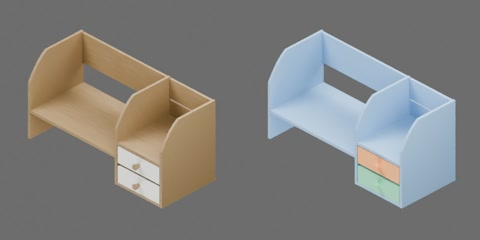
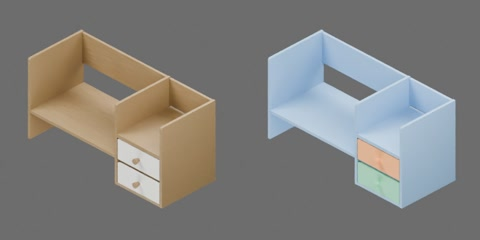
Refine rack drawer geometry and use blend world coordinates

diff --git a/tests/modeling/test_geometry_checks.py b/tests/modeling/test_geometry_checks.py
@@ -74,28 +74,36 @@ class AcceptanceTests(unittest.TestCase):
         views = {'moved.jpg': [{'frame':0, 'camera':camera, 'joints':{},
                                'transforms':{'body':[.2,0,0,1,0,0,0], 'cap':cap_pose}}],
                  'reset.jpg': [{'frame':0, 'camera':camera, 'joints':{}}]}
-        saved = {}
+        initial = {}
         original_sample = GeometryChecks.sample
         def capture(checks, output, frame, values, transforms=None):
             body, cap = bpy.data.objects['body'], bpy.data.objects['cap']
             self.assertIsNone(body.parent); self.assertIsNone(cap.parent)
-            if output == 'moved.jpg':
-                saved.update({obj.name: obj.matrix_world.copy() for obj in checks.visuals + checks.colliders})
-                self.assertAlmostEqual(body.matrix_world.translation.x, .2, places=6)
-                np.testing.assert_allclose(cap.matrix_world.translation, [-.087,-.045,0], atol=1e-6)
-                self.assertAlmostEqual(cap.matrix_world.to_quaternion().angle, np.pi/2, places=6)
-            else:
-                self.assertAlmostEqual(body.matrix_world.translation.x, 0, places=6)
-                self.assertAlmostEqual(cap.matrix_world.translation.x, -.032, places=6)
-                self.assertAlmostEqual(cap.matrix_world.to_quaternion().angle, 0, places=6)
-                delta = (Matrix.Translation((-.087,-.045,0)) @ Matrix.Rotation(-np.pi/2,4,'Z')
-                         @ Matrix.Translation((.032,0,0)))
-                for obj in checks.visuals + checks.colliders:
-                    if checks.owner[obj.name] == 'cap':
-                        np.testing.assert_allclose(saved[obj.name], delta @ obj.matrix_world, atol=1e-6)
+            for obj in [body, cap] + checks.visuals + checks.colliders:
+                owner = obj.name if obj in (body, cap) else checks.owner[obj.name]
+                delta = Matrix.Identity(4)
+                if output == 'moved.jpg':
+                    if owner == 'body':
+                        delta = Matrix.Translation((.2,0,0))
+                    else:
+                        pivot = initial['cap'].translation
+                        delta = (Matrix.Translation(pivot + Vector(cap_pose[:3]))
+                                 @ Matrix.Rotation(-np.pi/2,4,'Z') @ Matrix.Translation(-pivot))
+                np.testing.assert_allclose(obj.matrix_world, delta @ initial[obj.name], atol=1e-6)
             return original_sample(checks, output, frame, values, transforms)
         with tempfile.TemporaryDirectory(dir=options.output) as tmp, patch.object(GeometryChecks,'sample',capture):
-            run_worker(path, views, Path(tmp), True)
+            # asset_id is identity only: a non-unit body frame must not rotate world-space axes.
+            bpy.ops.wm.open_mainfile(filepath=str(path))
+            bpy.context.scene.rigidbody_world.enabled = False
+            frame = Matrix.Translation((.1,.2,.3)) @ Matrix.Rotation(np.pi/2,4,'Z')
+            for name in ('body', 'cap'):
+                obj = bpy.data.objects[name]
+                obj.matrix_world = frame @ obj.matrix_world
+            bpy.context.view_layer.update()
+            initial.update({obj.name: obj.matrix_world.copy() for obj in bpy.context.scene.objects})
+            saved_path = Path(tmp)/'world-frame.blend'
+            bpy.ops.wm.save_as_mainfile(filepath=str(saved_path))
+            run_worker(saved_path, views, Path(tmp)/'preview', True)
         # Rotating an inserted cap sideways must be seen by the collision check.
         overlapping = {'overlap.jpg': [{'frame':0, 'camera':camera, 'joints':{},
                                        'transforms':{'cap':[0,0,0,2**-.5,0,0,2**-.5]}}]}

diff --git a/asset_sources/objects/cabinet/000001/object.py b/asset_sources/objects/cabinet/000001/object.py
@@ -31,10 +31,10 @@ def wood_material():
 
 
 def side_panel(name, x, surface, parent):
-    contour = [(-.170, 0), (.180, 0), (.180, .435), (-.058, .435)]
-    for i in range(1, 5):
-        t = i / 4
-        contour.append((-.170 + .112 * (1 - t), .435 - .132 * t + .018 * math.sin(math.pi * t)))
+    contour = [(-.170, 0), (.180, 0), (.180, .435), (-.160, .435)]
+    for degrees in (120, 150, 180):
+        angle = math.radians(degrees)
+        contour.append((-.160 + .010 * math.cos(angle), .425 + .010 * math.sin(angle)))
     n = len(contour)
     vertices = [(xx, y, z) for xx in (x - .007, x + .007) for y, z in contour]
     faces = [tuple(range(n - 1, -1, -1)), tuple(range(n, 2 * n))]
@@ -52,29 +52,29 @@ def build():
         side_panel(name, x, wood, housing)
     for name, dimensions, position in [
         ("Left raised shelf", (.560, .350, .015), (-.147, .005, .149)),
-        ("Right open cubby floor", (.280, .350, .014), (.2835, .005, .225)),
+        ("Right open cubby floor", (.280, .350, .0168), (.2835, .005, .2671)),
         ("Right cabinet bottom", (.280, .350, .013), (.2835, .005, .008)),
-        ("Drawer divider shelf", (.280, .337, .010), (.2835, .009, .115)),
+        ("Drawer divider shelf", (.280, .337, .012), (.2835, .009, .1351)),
         ("Left upper rear rail", (.560, .013, .1606666667), (-.147, .177, .3481666667)),
         ("Left lower rear board", (.560, .013, .1415), (-.147, .177, .07075)),
-        ("Right upper rear rail", (.280, .013, .105), (.2835, .177, .376)),
-        ("Right cubby back", (.280, .009, .092), (.2835, .178, .2655)),
-        ("Drawer cabinet back", (.280, .008, .210), (.2835, .177, .114)),
+        ("Right upper rear rail", (.280, .013, .141), (.2835, .177, .358)),
+        ("Drawer cabinet back", (.280, .008, .252), (.2835, .177, .1339)),
     ]:
         box(name, dimensions, position, wood, housing)
-    for z in (.058, .165):
+    # Scale the complete drawer bay vertically by 1.2 about the bottom's top (14.5 mm).
+    for z in (.0667, .1951):
         for x in (.151, .416):
-            box("Fixed side guide", (.009, .283, .008), (x, .005, z), inner, housing)
-    for i, z in [(1, .1665), (2, .0595)]:
+            box("Fixed side guide", (.009, .283, .0096), (x, .005, z), inner, housing)
+    for i, z in [(1, .1969), (2, .0685)]:
         drawer = body(f"drawer{i}", root)
         drawer.location = (.2835, -.163, z)
         for name, dimensions, position, surface in [
-            ("White drawer front", (.271, .012, .090), (0, 0, 0), white),
-            ("Drawer frame behind face", (.267, .010, .088), (0, .011, 0), wood),
-            ("Open drawer bottom", (.252, .285, .007), (0, .154, -.041), inner),
-            ("Drawer left wall", (.008, .279, .083), (-.122, .154, -.002), inner),
-            ("Drawer right wall", (.008, .279, .083), (.122, .154, -.002), inner),
-            ("Drawer rear wall", (.252, .008, .083), (0, .298, -.002), inner),
+            ("White drawer front", (.271, .012, .108), (0, 0, 0), white),
+            ("Drawer frame behind face", (.267, .010, .1056), (0, .011, 0), wood),
+            ("Open drawer bottom", (.252, .285, .0084), (0, .154, -.0492), inner),
+            ("Drawer left wall", (.008, .279, .0996), (-.122, .154, -.0024), inner),
+            ("Drawer right wall", (.008, .279, .0996), (.122, .154, -.0024), inner),
+            ("Drawer rear wall", (.252, .008, .0996), (0, .298, -.0024), inner),
         ]:
             box(name, dimensions, position, surface, drawer)
         cylinder("Oak knob neck", .010, .014, (0, -.013, 0), wood, drawer, axis="Y")

diff --git a/table_1000/modeling/preview.py b/table_1000/modeling/preview.py
@@ -195,12 +195,6 @@ def run_worker(blend, views, output, check_only=False, device="auto"):
     bpy.context.view_layer.update()
 
     checks = GeometryChecks()
-    roots = [obj for obj in scene.objects if obj.parent is None and obj.get("asset_id")]
-    if len(roots) > 1:
-        raise ValueError("multiple asset roots; specify one local reference frame")
-    root = roots[0] if roots else None
-    asset_frame = root.matrix_world.copy() if root else Matrix.Identity(4)
-    asset_inverse = asset_frame.inverted()
     meshes = checks.visuals + checks.colliders
     if not meshes:
         raise ValueError("asset contains no visible meshes")
@@ -256,10 +250,10 @@ def run_worker(blend, views, output, check_only=False, device="auto"):
             if not progressed:
                 raise ValueError("joint dependency cycle")
         for name, transform in transforms.items():
-            pivot = asset_inverse @ rest[name].translation
+            pivot = rest[name].translation
             rotation = Quaternion(transform[3:]).to_matrix().to_4x4()
-            delta = (asset_frame @ Matrix.Translation(Vector(transform[:3]) + pivot)
-                     @ rotation @ Matrix.Translation(-pivot) @ asset_inverse)
+            delta = (Matrix.Translation(Vector(transform[:3]) + pivot)
+                     @ rotation @ Matrix.Translation(-pivot))
             bodies[name].matrix_world = delta @ bodies[name].matrix_world
         bpy.context.view_layer.update()
 
@@ -282,7 +276,7 @@ def run_worker(blend, views, output, check_only=False, device="auto"):
 
     def corners():
         depsgraph = bpy.context.evaluated_depsgraph_get()
-        return [asset_inverse @ obj.evaluated_get(depsgraph).matrix_world @ Vector(corner)
+        return [obj.evaluated_get(depsgraph).matrix_world @ Vector(corner)
                 for obj in meshes for corner in obj.evaluated_get(depsgraph).bound_box]
 
     def box(points):
@@ -330,8 +324,8 @@ def run_worker(blend, views, output, check_only=False, device="auto"):
         data.size = default_span * 1.5
         light = bpy.data.objects.new(name, data)
         scene.collection.objects.link(light)
-        light.location = asset_frame @ (default_center + Vector(offset) * default_span)
-        light.rotation_euler = (asset_frame.to_quaternion() @ (-Vector(offset))).to_track_quat("-Z", "Y").to_euler()
+        light.location = default_center + Vector(offset) * default_span
+        light.rotation_euler = (-Vector(offset)).to_track_quat("-Z", "Y").to_euler()
 
     def camera_rotation(values):
         direction = Vector(values[:3]).normalized()
@@ -342,7 +336,7 @@ def run_worker(blend, views, output, check_only=False, device="auto"):
     def frame_camera(values, center, scale, span):
         rotation = camera_rotation(values)
         direction = Vector(values[:3]).normalized()
-        camera.matrix_world = asset_frame @ Matrix.Translation(center + direction * span * 3) @ rotation.to_4x4()
+        camera.matrix_world = Matrix.Translation(center + direction * span * 3) @ rotation.to_4x4()
         camera.data.ortho_scale = scale
         camera.data.clip_start = max(span * 0.001, 1e-5)
         camera.data.clip_end = max(span * 20, 1)

diff --git a/docs/repository-conventions.md b/docs/repository-conventions.md
@@ -8,8 +8,6 @@
 
 对象源目录保存独立建模入口、JSON 配置、简洁 README 和约 480 × 240 的四分之三 JPG 缩略图；README 与缩略图随 Git 提交。完整渲染、动画、模型和验收报告保存在生成目录，不提交。`preview.json` 的每个 `camera` 数组保持单行。
 
-教程可保存裁剪或压缩后的示例拼图、视频与封面，使用文档相对链接；完整验收产物仍保存在生成目录。
-
 ## 提交与审查
 
 `tests/` 以单元测试为主，子目录与 `table_1000/` 的源码目录对应，例如 `table_1000/modeling/` 对应 `tests/modeling/`，测试文件使用 `test_*.py` 命名。需要 Blender 或生成资产的集成测试应明确注明运行环境与输入；测试产物写入 `outputs/`，不存入 `tests/`。

diff --git a/asset_sources/objects/cabinet/000001/README.md b/asset_sources/objects/cabinet/000001/README.md
@@ -2,4 +2,4 @@
 
 ![preview](three_quarter.jpg)
 
-棕色木架带后挡板和开缝层架和两个白色面板抽屉，约 874 × 379 × 435 mm。包括三个刚体：木架、上抽屉、下抽屉。两个 SLIDER 关节限位均为 [0, 0.208] m，正值沿 −Y 拉出，零位闭合。
+棕色木架带后挡板、开缝层架和两个白色面板抽屉，约 874 × 379 × 435 mm，抽屉高 108 mm。包括三个刚体：木架、上抽屉、下抽屉。两个 SLIDER 关节限位均为 [0, 0.208] m，正值沿 −Y 拉出，零位闭合。
